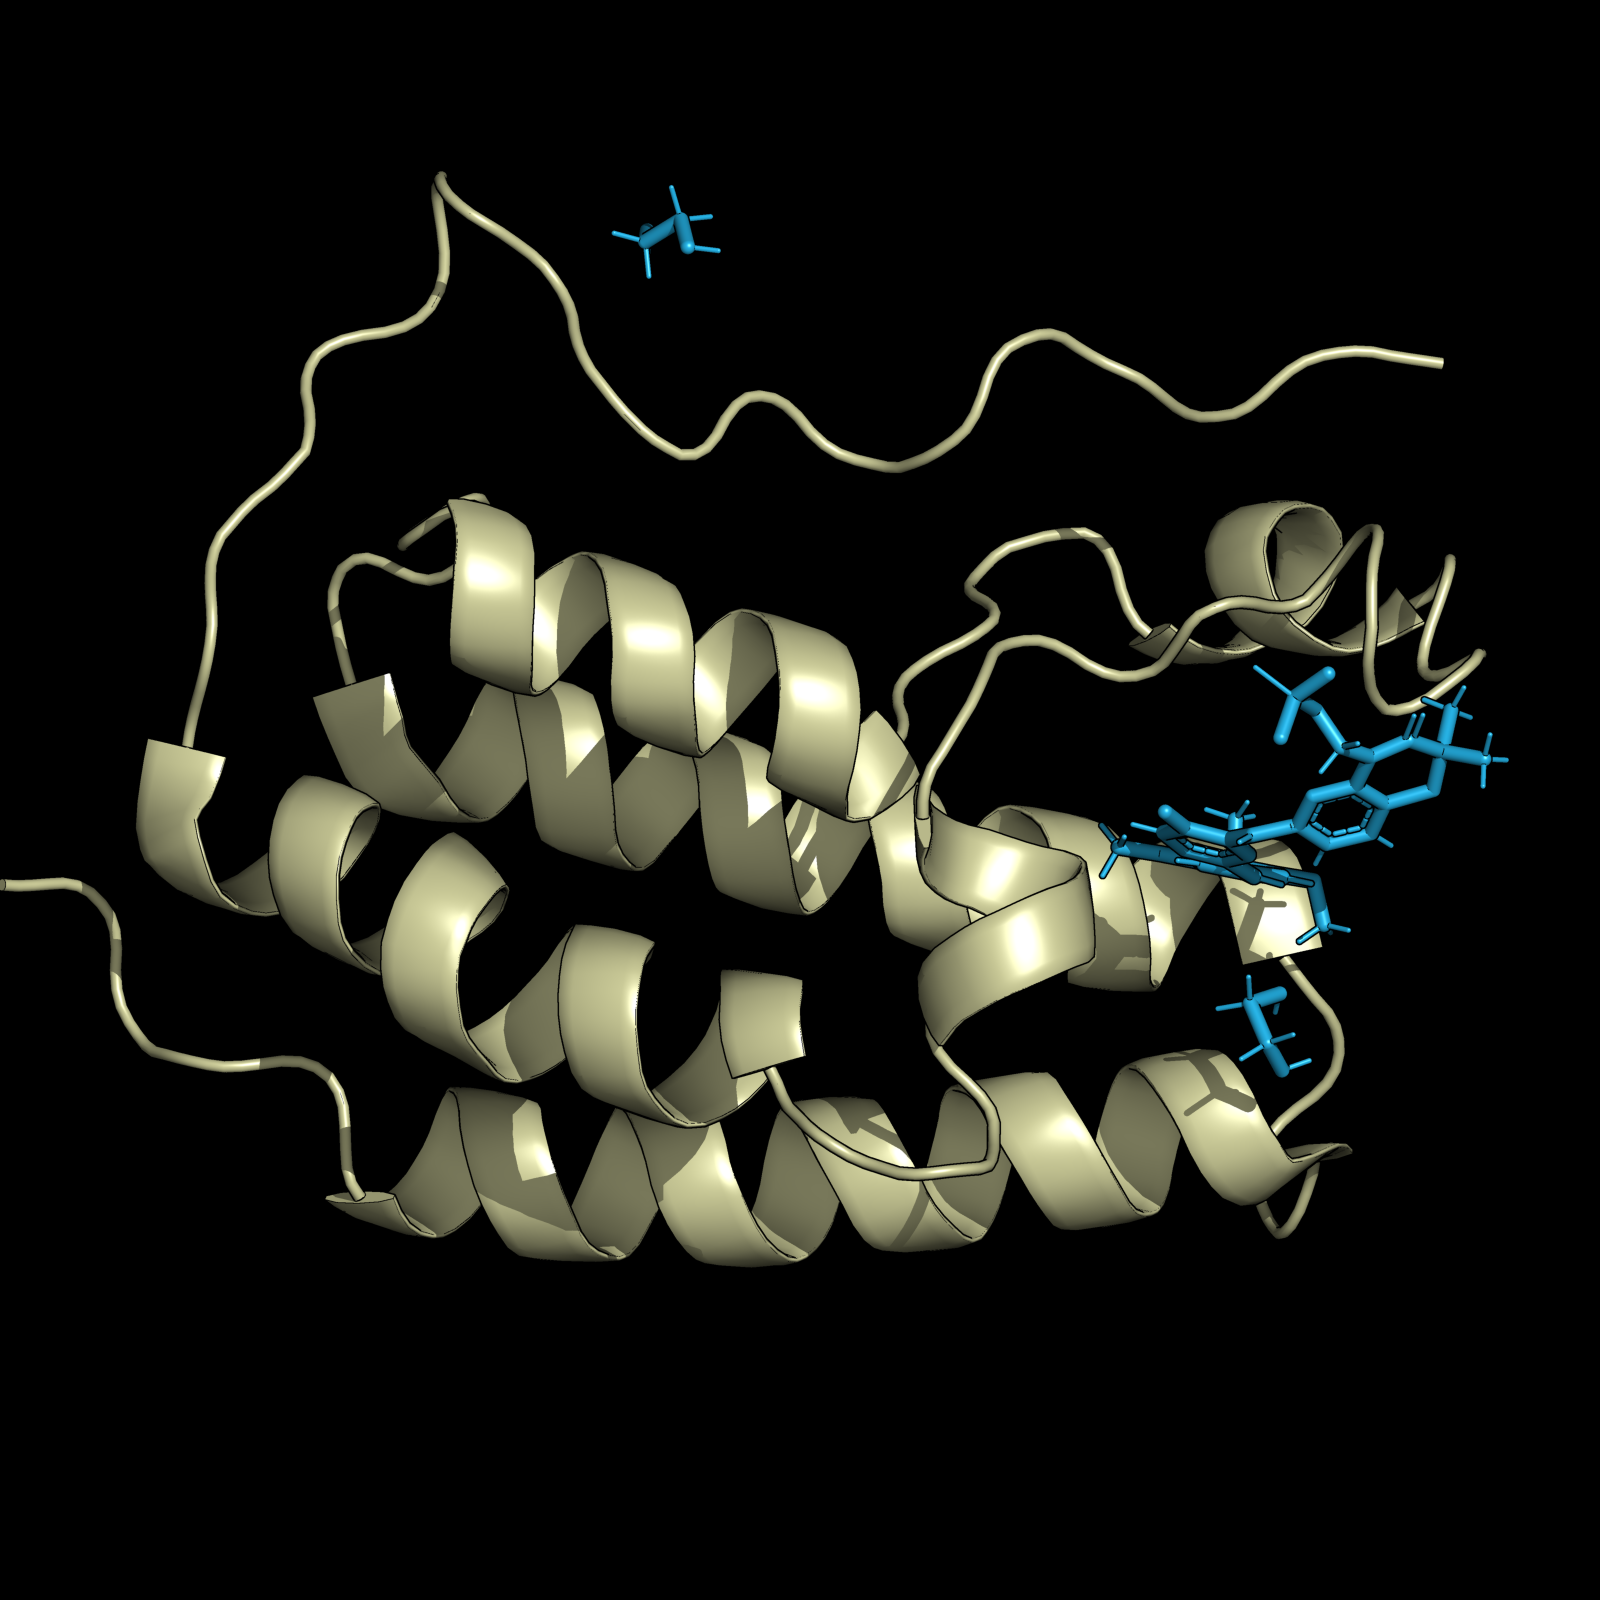
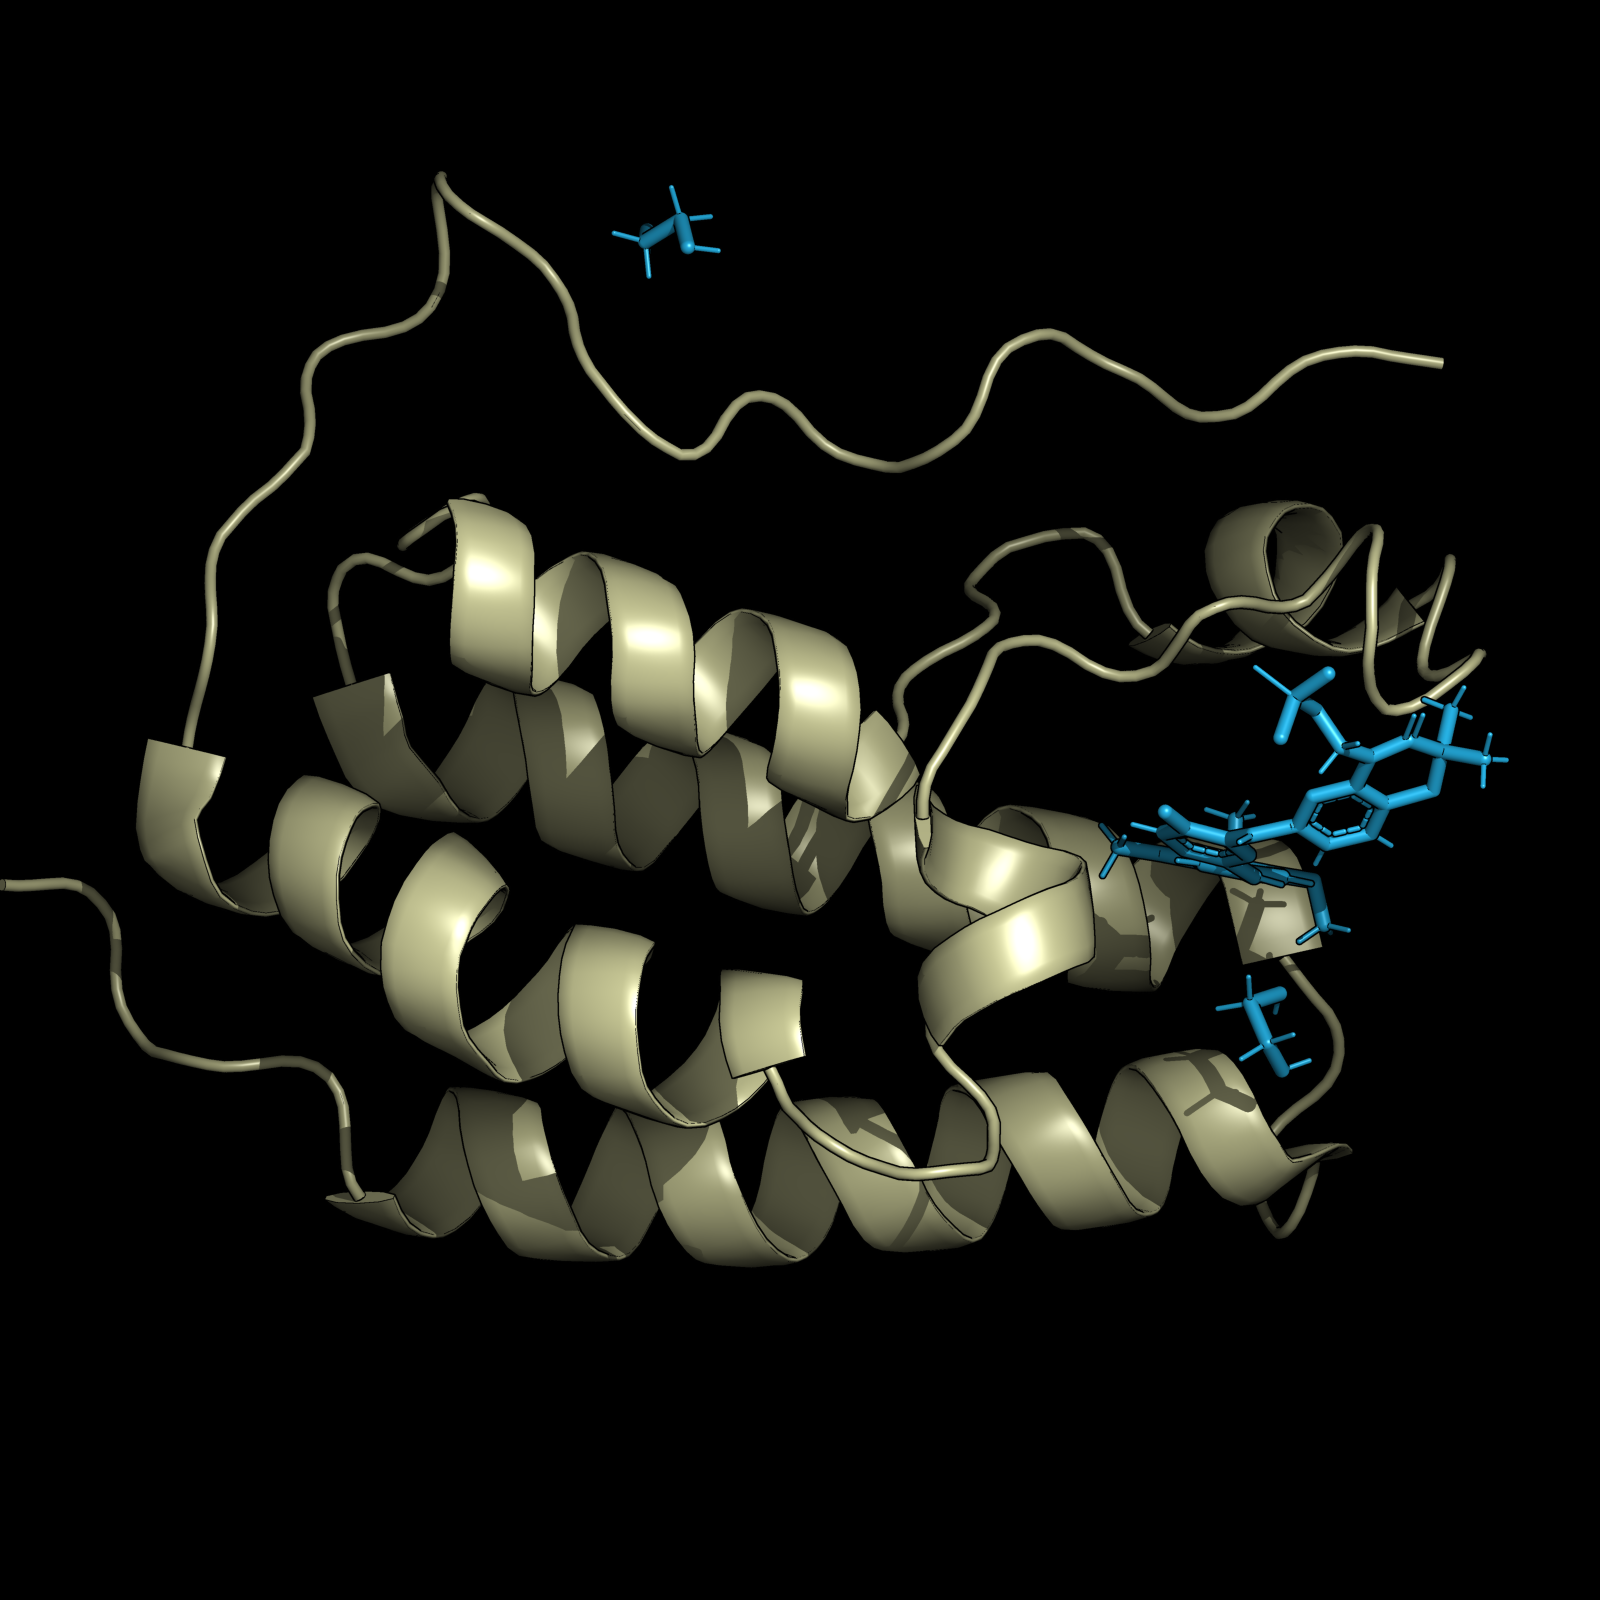
darker

diff --git a/pdb2png.py b/pdb2png.py
@@ -12,7 +12,7 @@ from pymol import cmd
 RENDER_OPTIONS = {
     "default": {
         "ray_opaque_background": "off",
-        "antialias": 2,
+        "antialias": "2",
         "orthoscopic": "on",
         "depth_cue": "0",
         "ray_trace_mode": "1",
@@ -21,14 +21,14 @@ RENDER_OPTIONS = {
     "default_bw": {
         "bg_color": "white",
         "ray_opaque_background": "on",
-        "antialias": 2,
+        "antialias": "2",
         "orthoscopic": "on",
         "depth_cue": "0",
         "ray_trace_mode": "2",
     },
     "default_cartoon": {
         "ray_opaque_background": "off",
-        "antialias": 2,
+        "antialias": "2",
         "orthoscopic": "on",
         "depth_cue": "0",
         "ray_trace_mode": "3",
@@ -36,17 +36,18 @@ RENDER_OPTIONS = {
     "dark": {
         "bg_color": "black",
         "ray_opaque_background": "on",
-        "antialias": 2,
+        "antialias": "2",
         "orthoscopic": "on",
         "light_count": "2",
         "specular": "1",
-        "depth_cue": "0",
+        "depth_cue": "1",
+        "fog_start": "0.35",
         "ray_trace_mode": "1",
         "ray_trace_color": "black",
     },
     "muted": {
         "bg_color": "white",
-        "valence": 0,
+        "valence": "0",
         "bg_rgb": "white",
         "reflect": "0",
         "spec_direct": "0",
